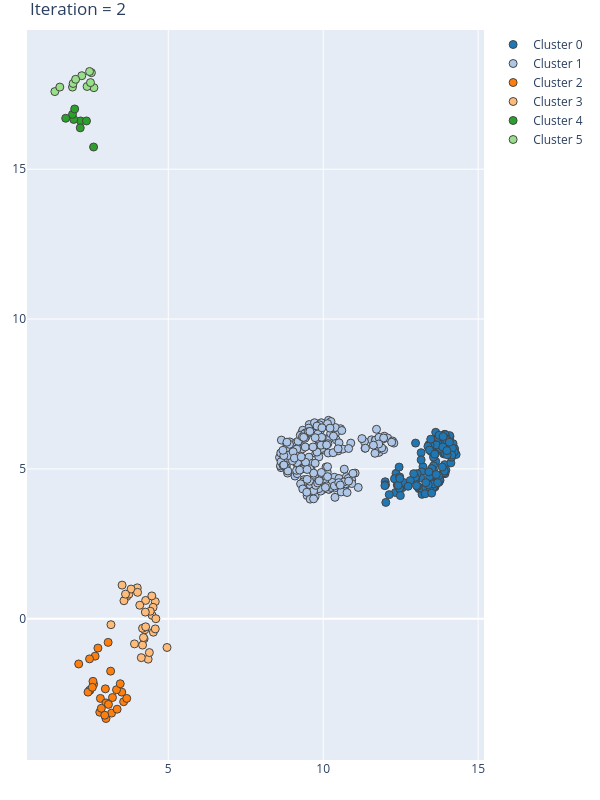
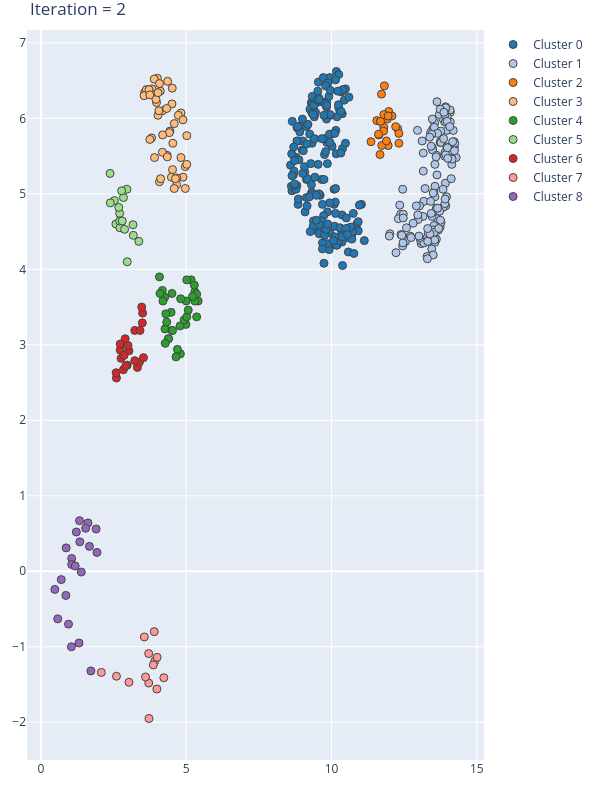
Updated the iteration graphs of clustering results

diff --git a/backend/ClusterTopicUtility.py b/backend/ClusterTopicUtility.py
@@ -11,6 +11,7 @@ import seaborn as sns
 import inflect
 import pandas as pd
 from nltk import sent_tokenize, word_tokenize, pos_tag, ngrams
+from psutil._common import pio
 
 from BERTModelDocClusterUtility import BERTModelDocClusterUtility
 
@@ -461,7 +462,7 @@ class ClusterTopicUtility:
                               legend=dict(orientation="v"),
                               margin=dict(l=20, r=20, t=30, b=40))
             file_path = os.path.join(folder, 'iteration_' + str(iteration) + ".png")
-            pio.write_image(fig, file_path, format='png')
+            fig.write_image(file_path, format='png')
             print(
                 "Output the images of clustered results at iteration {i} to {path}".format(i=iteration, path=file_path))
         except Exception as err:

diff --git a/backend/KeyPhrase.py b/backend/KeyPhrase.py
@@ -26,7 +26,8 @@ Path(sentence_transformers_path).mkdir(parents=True, exist_ok=True)
 class KeyPhraseSimilarity:
     def __init__(self):
         self.args = Namespace(
-            case_name='CultureUrbanStudyCorpus',
+            # case_name='CultureUrbanStudyCorpus',
+            case_name='MLUrbanStudyCorpus',
             # Model name ref: https://www.sbert.net/docs/pretrained_models.html
             model_name="all-mpnet-base-v2",
             device='cpu',

diff --git a/backend/ClusterTermTFIDF.py b/backend/ClusterTermTFIDF.py
@@ -211,8 +211,8 @@ if __name__ == '__main__':
     try:
         ct = ClusterTermTFIDF()
         # ct.collect_iterative_cluster_results()
-        # ct.output_iterative_cluster_images()
+        ct.output_iterative_cluster_images()
         # ct.derive_cluster_terms_by_TF_IDF()
-        ct.summarize_cluster_terms()
+        # ct.summarize_cluster_terms()
     except Exception as err:
         print("Error occurred! {err}".format(err=err))
